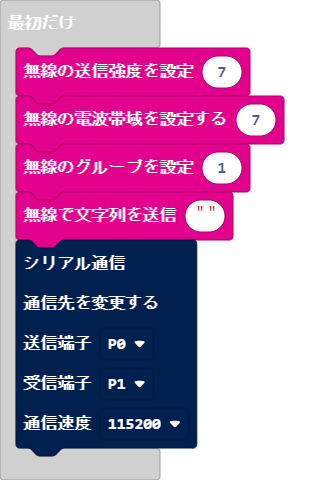
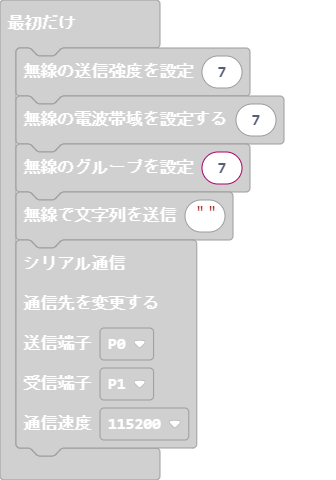
グループの設定を調整

diff --git a/main.ts b/main.ts
@@ -10,7 +10,7 @@ radio.onReceivedString(function (receivedString) {
 })
 radio.setTransmitPower(7)
 radio.setFrequencyBand(7)
-radio.setGroup(1)
+radio.setGroup(7)
 radio.sendString("")
 serial.redirect(
 SerialPin.P0,
